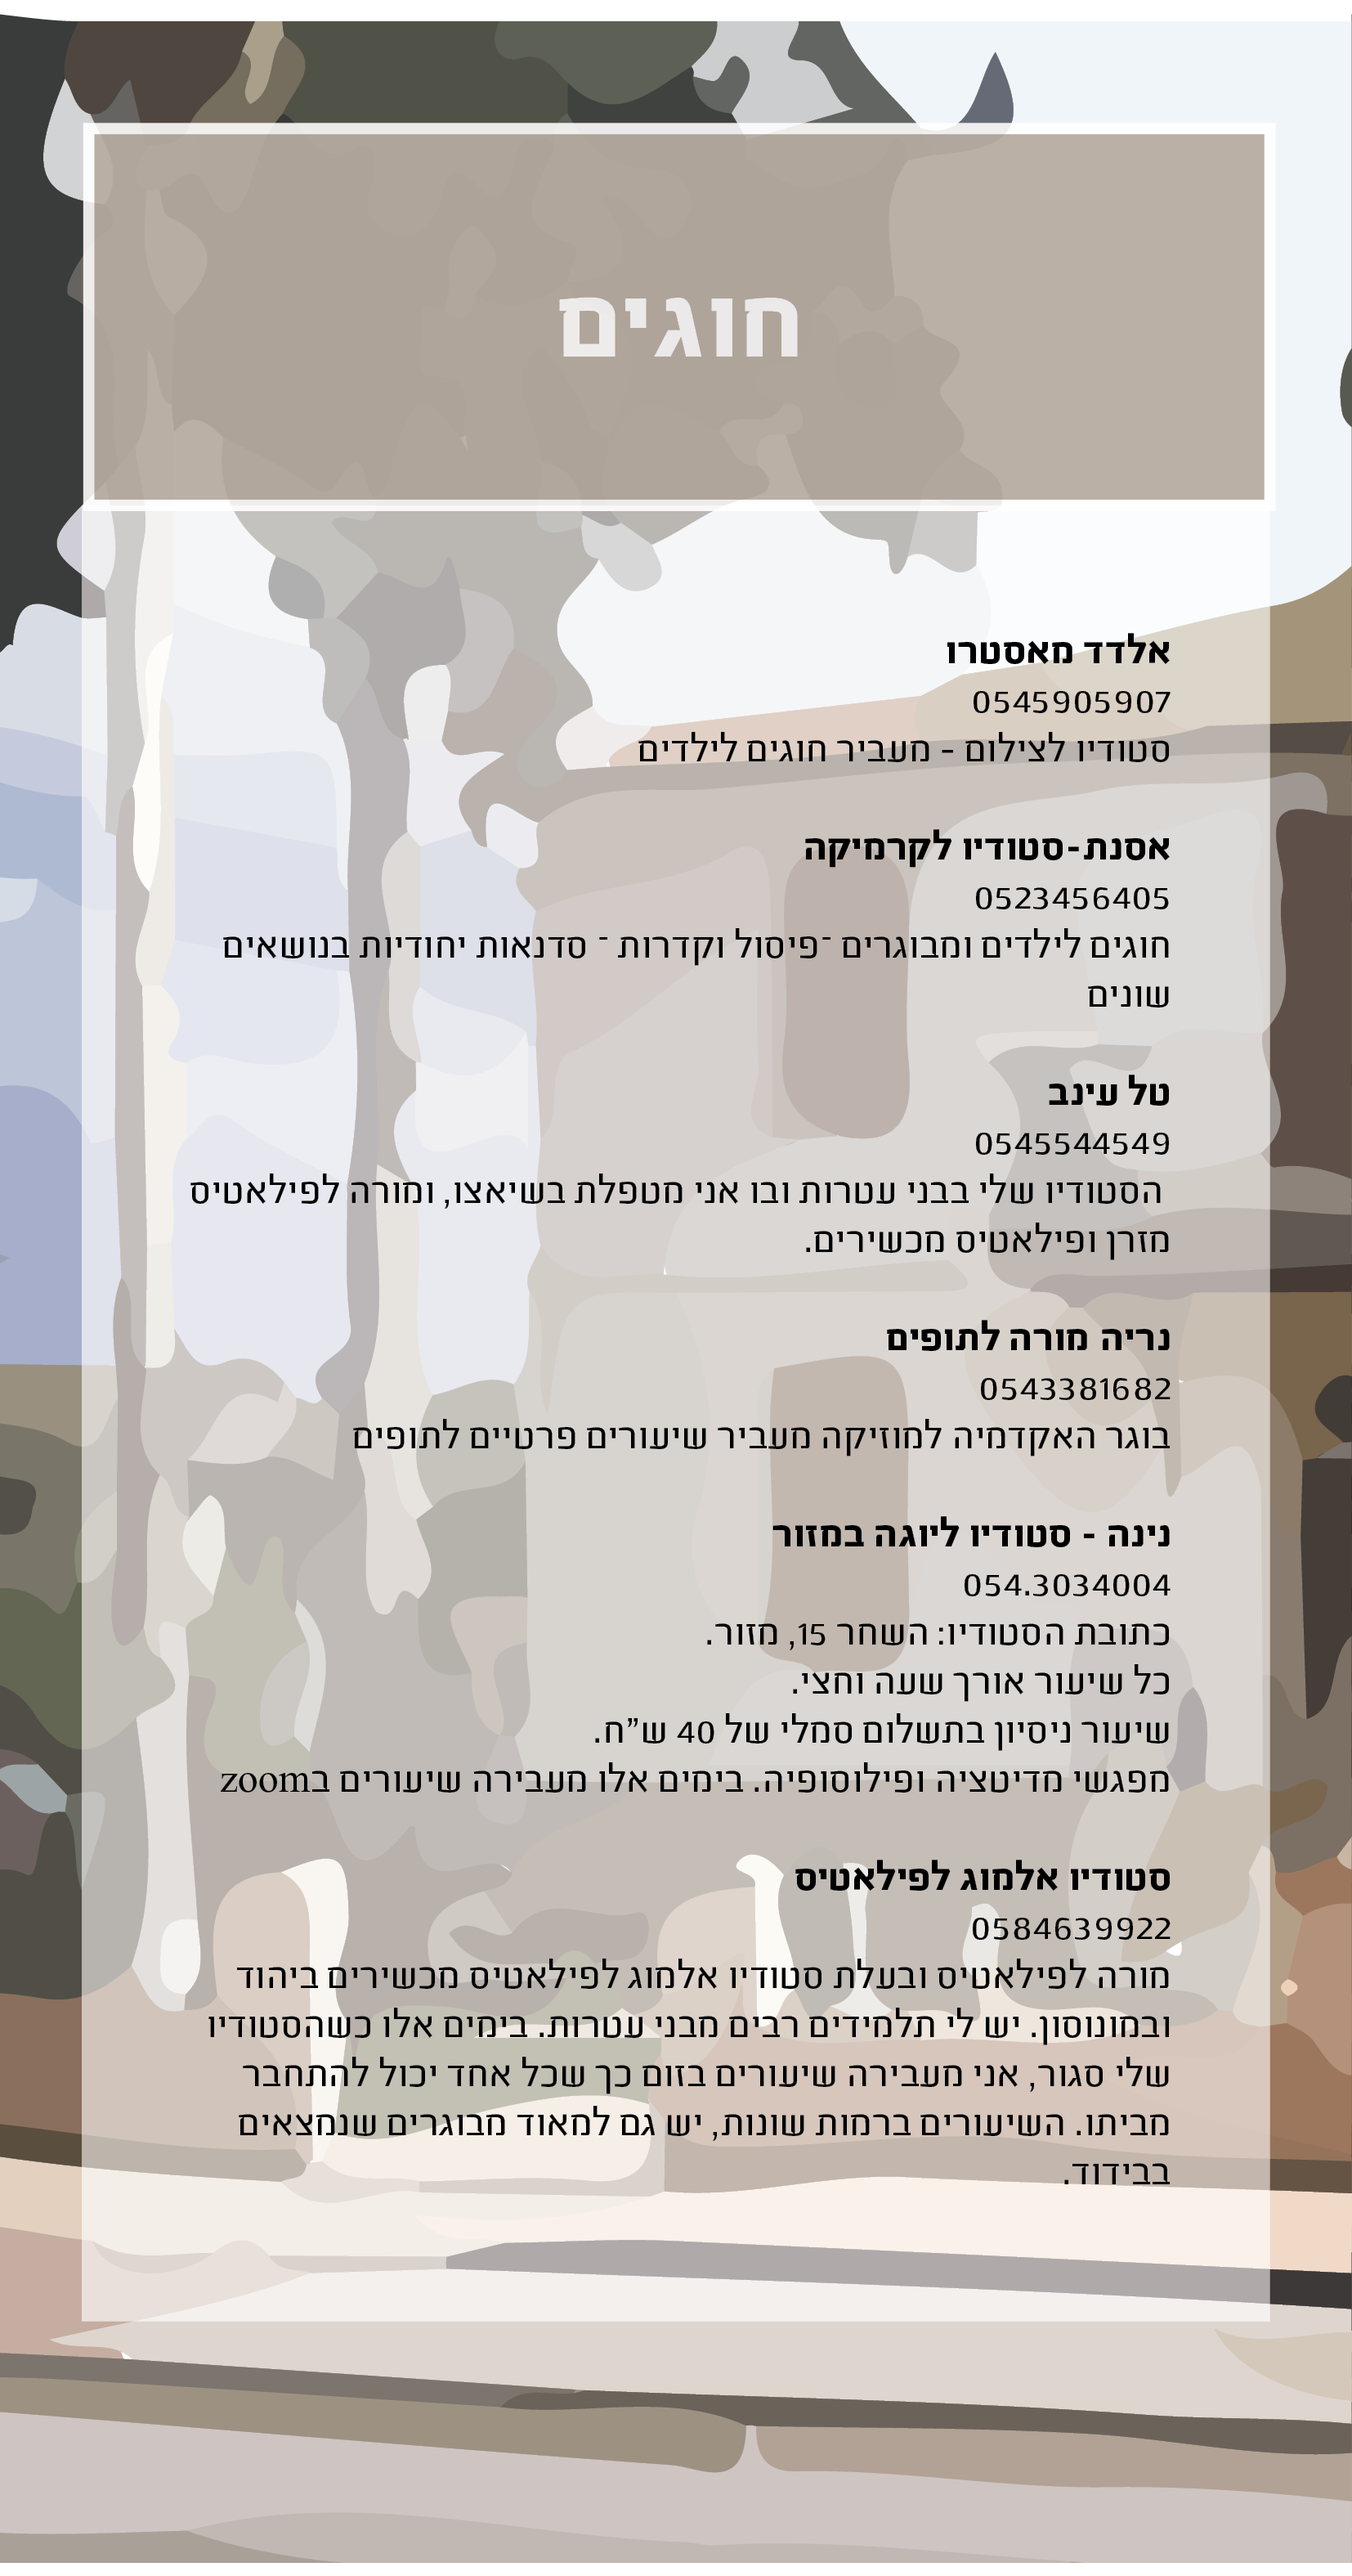
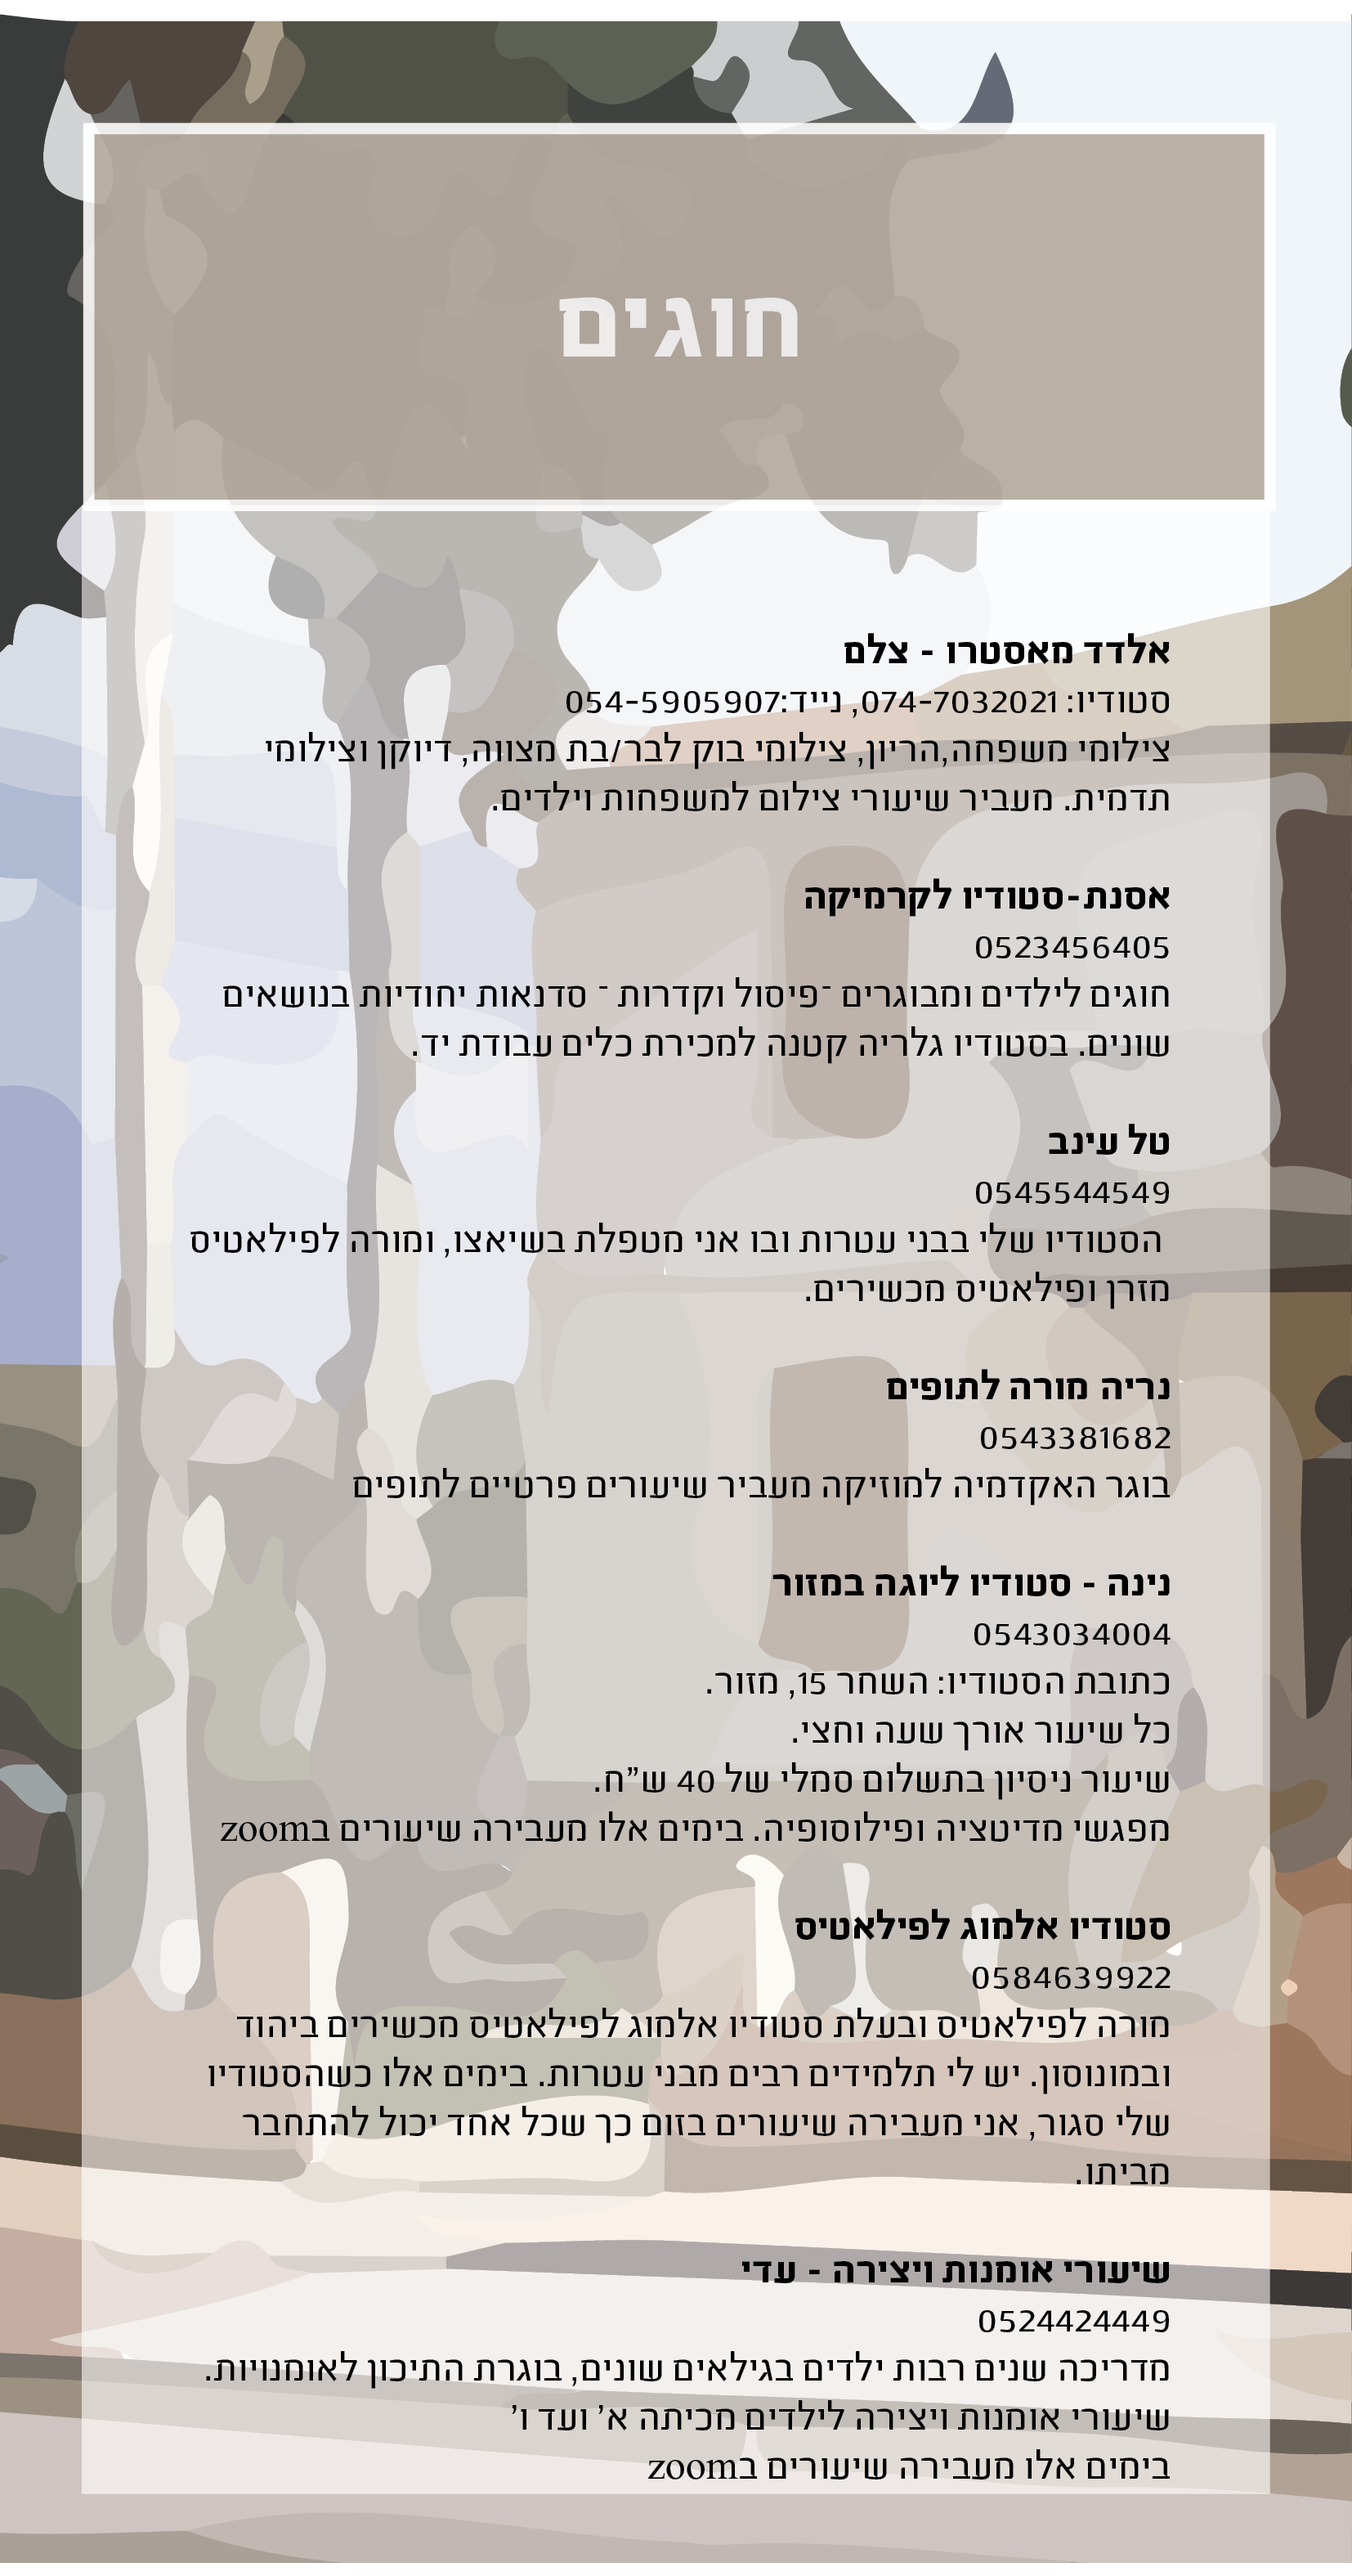
bug fixes

diff --git a/hugim.html b/hugim.html
@@ -43,15 +43,18 @@
 
 <body onresize="size()">
 	<img src="hugim.png">
-	<div id="buttons" style="width: 662px; height: 1261px;">
-		<button onclick="document.location.href = 'tel:0545905907'" style="top: 25.5%;">
+	<div id="buttons" style="width: 719px; height: 1369px;">
+		<button onclick="document.location.href = 'tel:0747032021'" style="top: 25.5%;left: 64%;">
+		</button><button onclick="document.location.href = 'tel:0545905907'" style="top: 25.5%; left:42%">
 		</button>
-		<button onclick="document.location.href = 'tel:0523456405'" style="top: 33.4%;">
+		<button onclick="document.location.href = 'tel:0523456405'" style="top: 35.4%;">
 		</button>
-		<button onclick="document.location.href = 'tel:0545544549'" style="top: 42.8%;">
-		</button><button onclick="document.location.href = 'tel:0543381682'" style="top: 52.4%;">
-		</button><button onclick="document.location.href = 'tel:0543034004'" style="top: 59.9%;">
-		</button><button onclick="document.location.href = 'tel:0584639922'" style="top: 73.2%;">
+		<button onclick="document.location.href = 'tel:0545544549'" style="top: 44.8%;">
+		</button><button onclick="document.location.href = 'tel:0543381682'" style="top: 54.4%;">
+		</button><button onclick="document.location.href = 'tel:0543034004'" style="top: 61.9%;">
+		</button><button onclick="document.location.href = 'tel:0584639922'" style="top: 75.2%;">
+		</button>
+		<button onclick="document.location.href = 'tel:0524424449'" style="top: 88.9%;">
 		</button></div>
 
 	<script>
